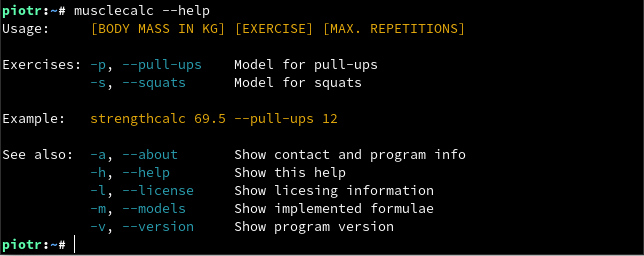
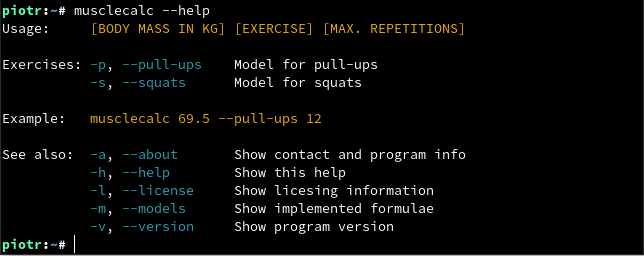
Add files via upload

Changed region(s): [[0.1242, 0.4375, 0.528, 0.5]]

diff --git a/src/main.rs b/src/main.rs
@@ -1,4 +1,4 @@
-// MUSCLECALC VERSION 0.1.0-ALPHA / APACHE LICENSE 2.0 © 2022 PIOTR BAJDEK
+// MUSCLECALC VERSION 0.1.0 / APACHE LICENSE 2.0 © 2022 PIOTR BAJDEK
 
 // MAIN FILE
 
@@ -21,7 +21,7 @@ fn main() {
 
       if argument == "-a" || argument == "--about" {
       println!("Program:  {}", yellow.to_owned() + "musclecalc" + reset);
-      println!("Version:  0.1.0-alpha");
+      println!("Version:  0.1.0");
       println!("Date:     July 25, 2022");
       println!("Author:   Piotr Bajdek (Poland)");
       println!("Contact:  {}", blue_underlined.to_owned() + "piotr.bajdek@proton.me" + reset);
@@ -38,7 +38,7 @@ fn main() {
       println!("Exercises: {}", cyan.to_owned() + "-p" + reset + ", " + cyan + "--pull-ups" + reset + "    Model for pull-ups");
       println!("           {}", cyan.to_owned() + "-s" + reset + ", " + cyan + "--squats" + reset + "      Model for squats");
       println!("");
-      println!("Example:   {}", yellow.to_owned() + "strengthcalc 69.5 --pull-ups 12" + reset);
+      println!("Example:   {}", yellow.to_owned() + "musclecalc 69.5 --pull-ups 12" + reset);
       println!("");
       println!("See also:  {}", cyan.to_owned() + "-a" + reset + ", " + cyan + "--about" + reset + "       Show contact and program info");
       println!("           {}", cyan.to_owned() + "-h" + reset + ", " + cyan + "--help" + reset + "        Show this help");
@@ -90,7 +90,7 @@ fn main() {
 // VERSION
 
       if argument == "-v" || argument == "--version" {
-      println!("Version: {}", yellow.to_owned() + "0.1.0-alpha" + reset);
+      println!("Version: {}", yellow.to_owned() + "0.1.0" + reset);
       println!("July 25, 2022");
       return;
       }
@@ -102,12 +102,12 @@ fn main() {
    let args: Vec<String> = env::args().collect();
 
    let input1 = args.get(1).expect(&(red.to_owned() + "Missing 'body mass' value! See: --help" + reset));
-   let mass: f32 = input1.parse().expect(&(red.to_owned() + "Incorrect 'body mass' value! Program only processes numbers!" + reset));
+   let mass: f32 = input1.parse().expect(&(red.to_owned() + "Incorrect 'body mass' value! Program only processes numbers! See: --help" + reset));
 
    let input2 = args.get(2).expect(&(red.to_owned() + "Missing 'exercise type' argument! See: --help" + reset));
 
    let input3 = args.get(3).expect(&(red.to_owned() + "Missing 'repetitions' value! See: --help" + reset));
-   let reps: f32 = input3.parse().expect(&(red.to_owned() + "Incorrect 'repetitions' value! Program only processes numbers!" + reset));
+   let reps: f32 = input3.parse().expect(&(red.to_owned() + "Incorrect 'repetitions' value! Program only processes numbers! See: --help" + reset));
 
 // PULL-UPS
 

diff --git a/README.md b/README.md
@@ -42,7 +42,7 @@ Wathen, D. 1994. Load assignment. In: T.R. Baechle (Ed.), _Essentials of strengt
 
 **1.** Install from crates.io by the use of cargo:
 
-_cargo install musclecalc \--version 0.1.0-alpha_
+_cargo install musclecalc_
 
 By default, the file will be downloaded to `.cargo/bin/`, a hidden folder in your home directory.
 
@@ -54,7 +54,7 @@ By default, the file will be downloaded to `.cargo/bin/`, a hidden folder in you
 
 **1.** Download the binary 'musclecalc' for Linux x86_64 from GitHub:
 
-https://github.com/piotrbajdek/musclecalc/releases/tag/v0.1.0-alpha
+https://github.com/piotrbajdek/musclecalc/releases/tag/v0.1.0
 
 **2.** Make the file executable:
 
@@ -72,7 +72,7 @@ _sudo cp musclecalc /var/usrlocal/bin/_
 
 Download and unpack the musclecalc source from GitHub. Then, build and install the program:
 
-https://github.com/piotrbajdek/musclecalc/releases/tag/v0.1.0-alpha
+https://github.com/piotrbajdek/musclecalc/releases/tag/v0.1.0
 
 _cargo build \--release && sudo cp target/release/musclecalc /usr/bin/_
 
